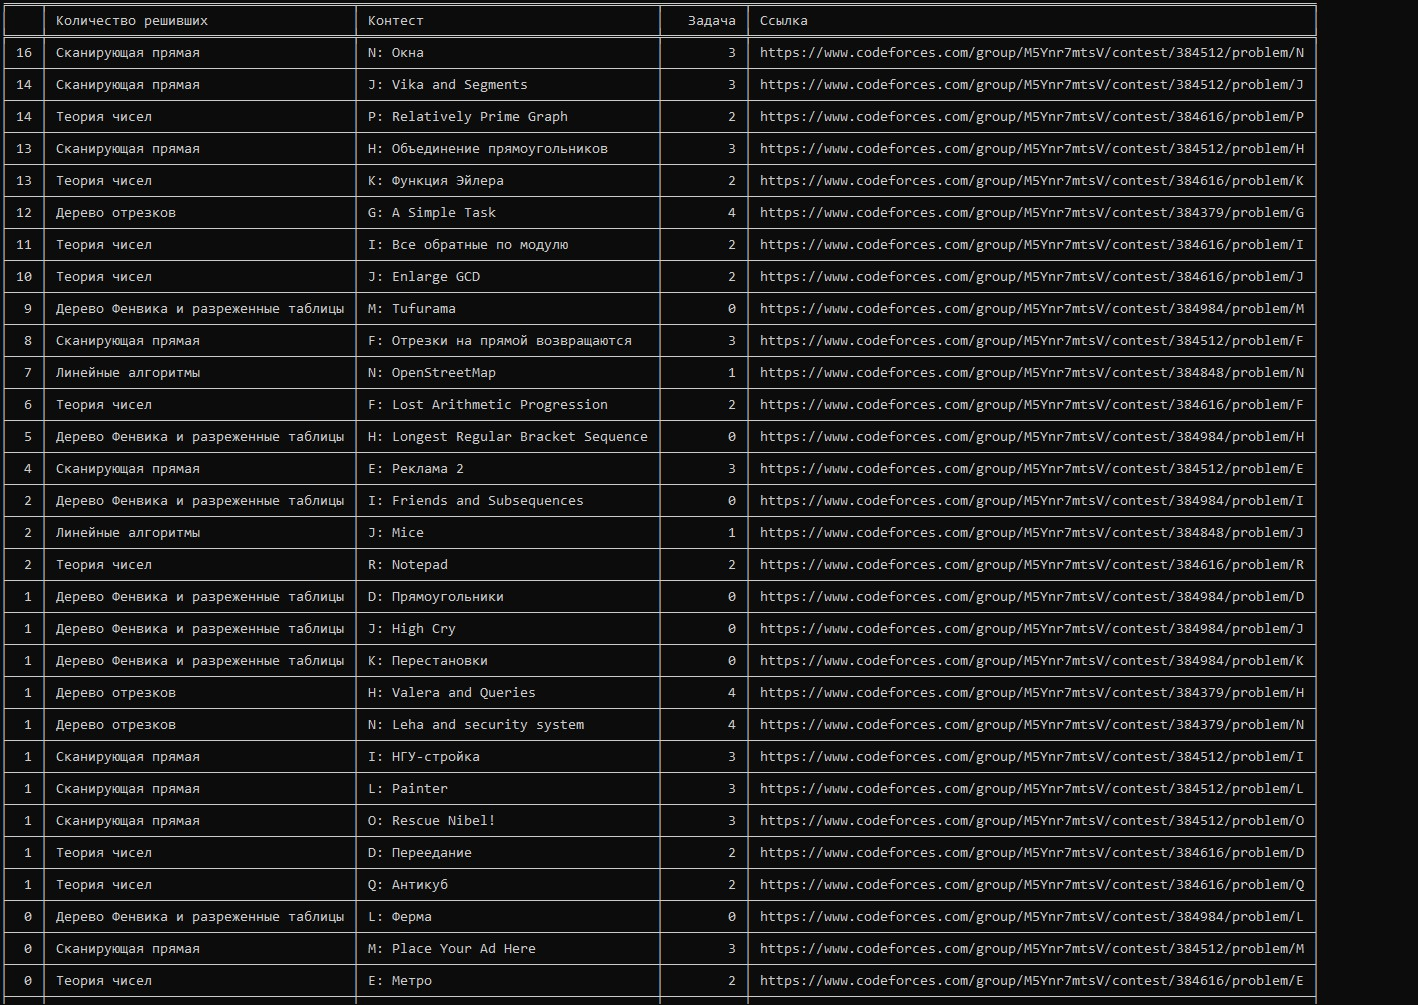
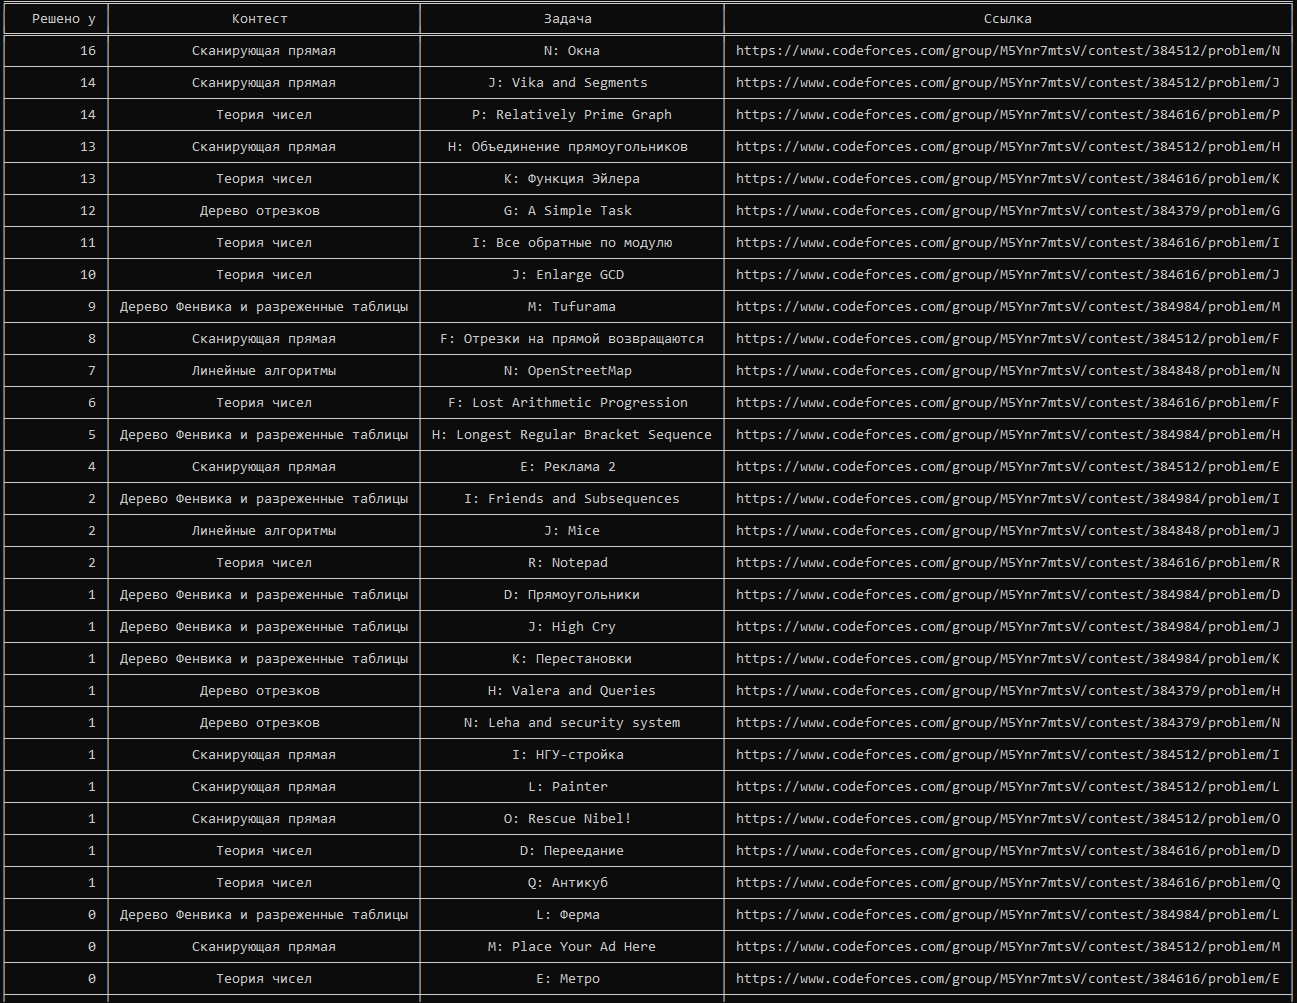
edit table style + edit img

Changed region(s): [[0.0, 0.0, 1.0, 1.0]]

diff --git a/main.py b/main.py
@@ -57,12 +57,12 @@ def build_view(tasks):
 
 
     e = []
-    keys = ['Количество решивших', 'Контест', 'Задача', 'Ссылка']
+    keys = ['Решено у', 'Контест', 'Задача', 'Ссылка']
 
     for task in tasks:
         e.append(task)
 
-    print(tabulate(e, headers=keys, tablefmt='fancy_grid'))
+    print(tabulate(e, headers=keys, tablefmt='fancy_grid', stralign='center'))
 
 
 
